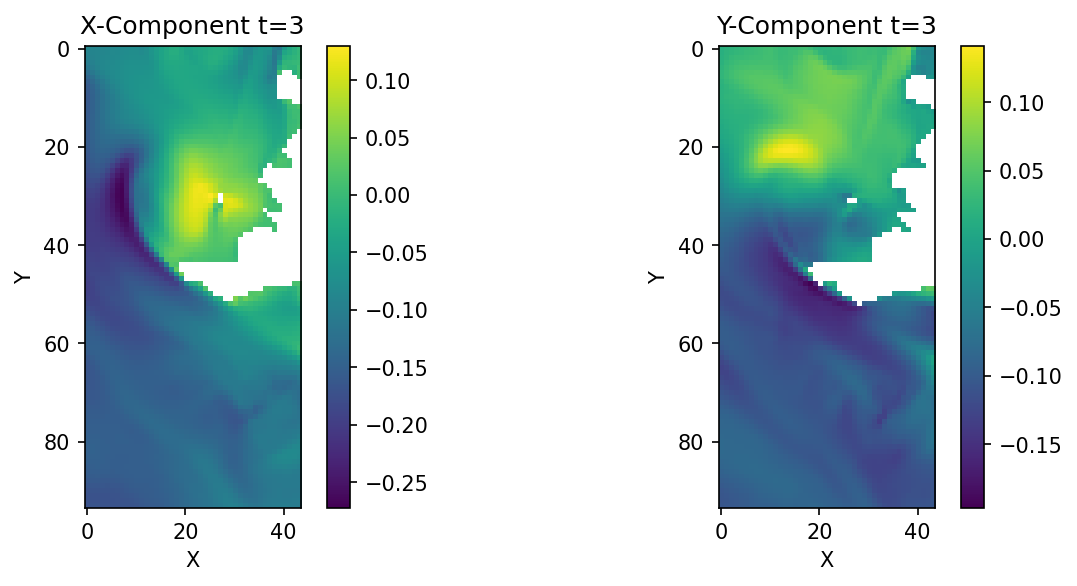
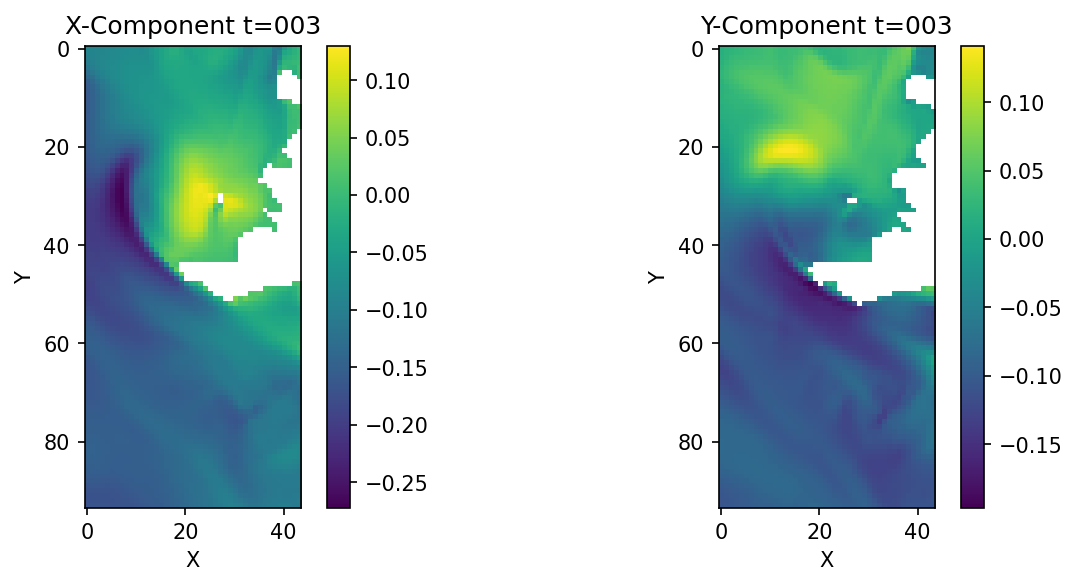
commit 2

Changed region(s): [[0.6435, 0.0307, 0.8886, 0.0614], [0.0613, 0.0307, 0.3064, 0.0614]]

diff --git a/plots/show_an_image.py b/plots/show_an_image.py
@@ -22,7 +22,7 @@ output_dir = os.path.join(os.path.dirname(os.path.abspath(__file__)), 'outputs')
 filenames = []
 heatmap_filenames = []
 
-for i in range(100):
+for i in range(10):
     tensor_to_draw_x = data_init.training_tensor[:, :, 0, i+500]
     tensor_to_draw_y = data_init.training_tensor[:, :, 1, i+500]
 
@@ -34,10 +34,10 @@ for i in range(100):
     # Heat map gifs
     fig, axs = plt.subplots(1, 2, figsize=(10, 4))
     im0 = axs[0].imshow(tensor_to_draw_x.numpy(), cmap='viridis')
-    axs[0].set_title(f'X-Component t={i}')
+    axs[0].set_title(f'X-Component t={i:03}')
     plt.colorbar(im0, ax=axs[0])
     im1 = axs[1].imshow(tensor_to_draw_y.numpy(), cmap='viridis')
-    axs[1].set_title(f'Y-Component t={i}')
+    axs[1].set_title(f'Y-Component t={i:03}')
     plt.colorbar(im1, ax=axs[1])
 
     for ax in axs:

diff --git a/plots/plot_data_tool.py b/plots/plot_data_tool.py
@@ -17,16 +17,10 @@ def plot_vector_field(vx: torch.Tensor, vy: torch.Tensor, step: int = 1, scale: 
     vx[torch.isnan(vx)] = 0.0
     vy[torch.isnan(vy)] = 0.0
 
-    print("Any NaNs in vx:", torch.isnan(vx).any().item())
-    print("Any NaNs in vy:", torch.isnan(vy).any().item())
-
     # Create meshgrid
     x = torch.arange(0, W)
     y = torch.arange(0, H)
     X, Y = torch.meshgrid(x, y, indexing='ij')
-
-    print("Any NaNs in X:", torch.isnan(X).any().item())
-    print("Any NaNs in Y:", torch.isnan(Y).any().item())
 
     plt.figure(figsize=(6, 6))
     plt.quiver(
